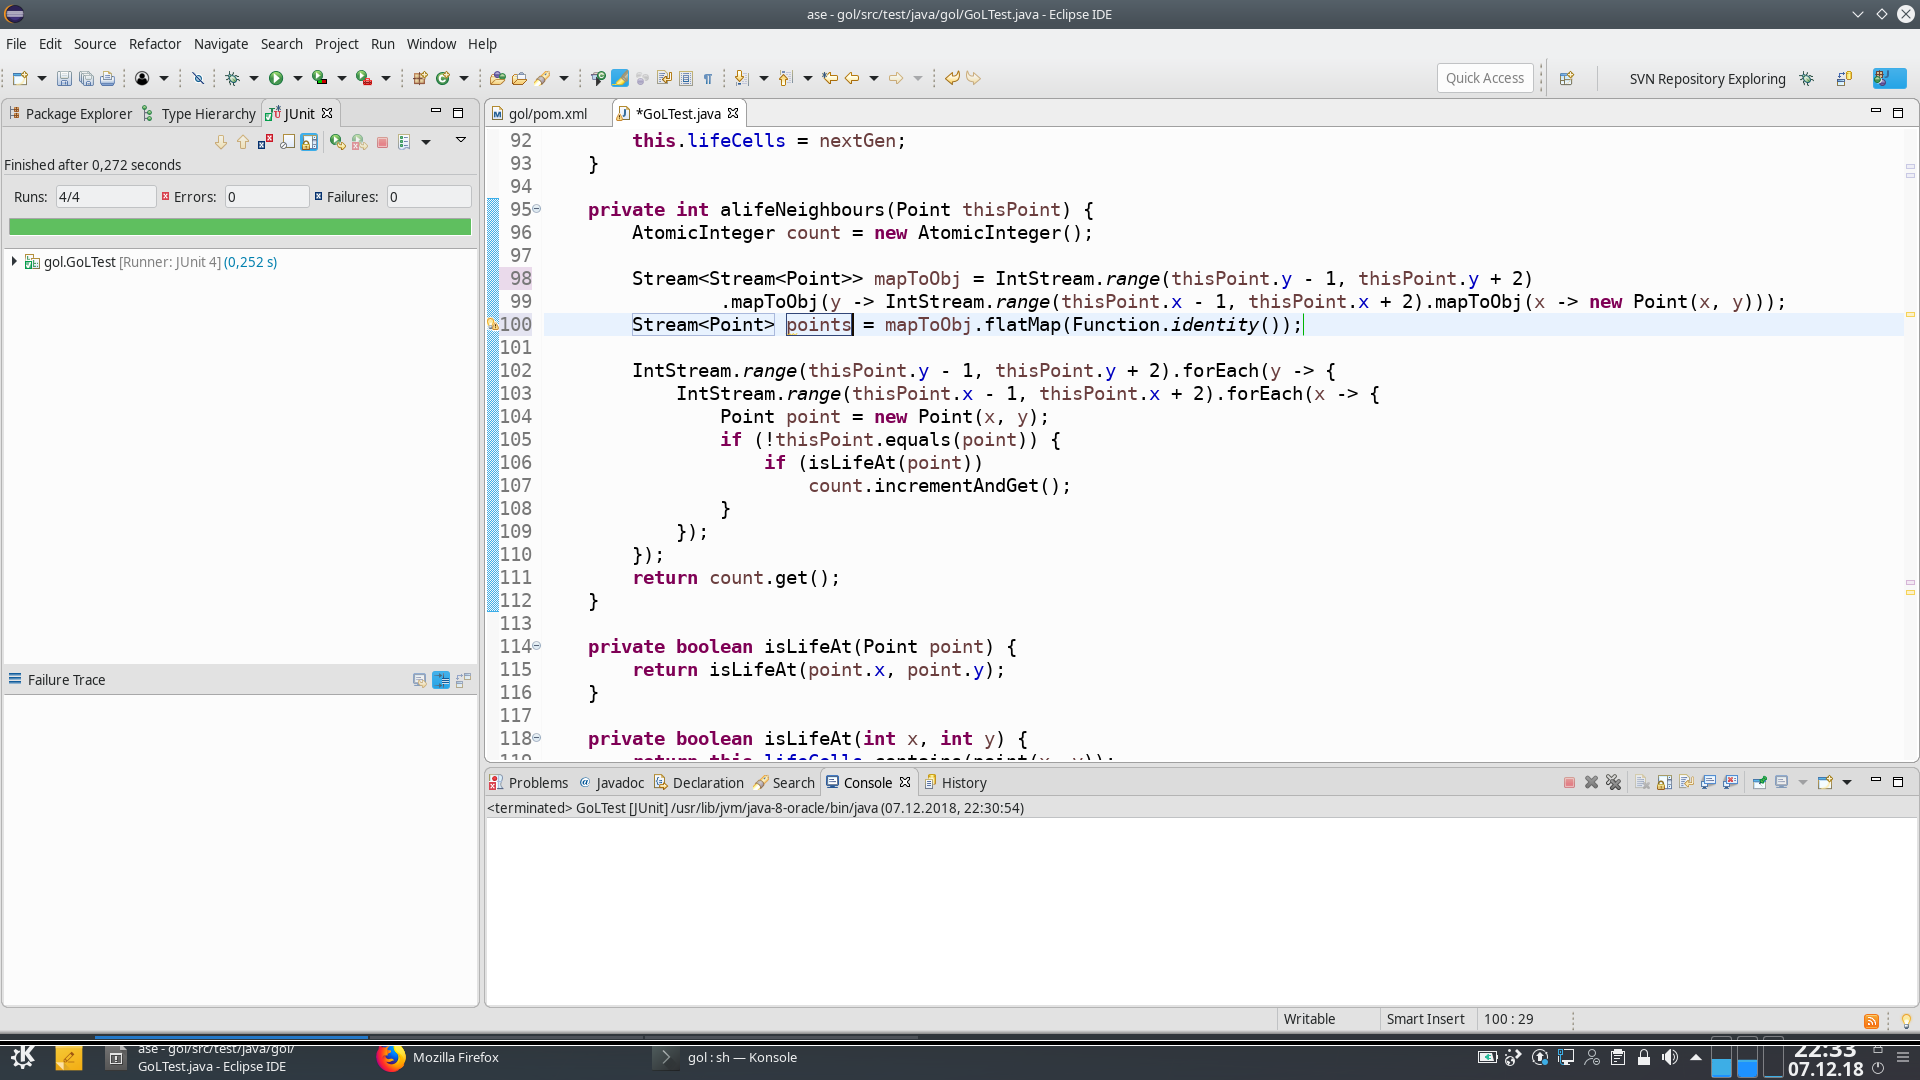
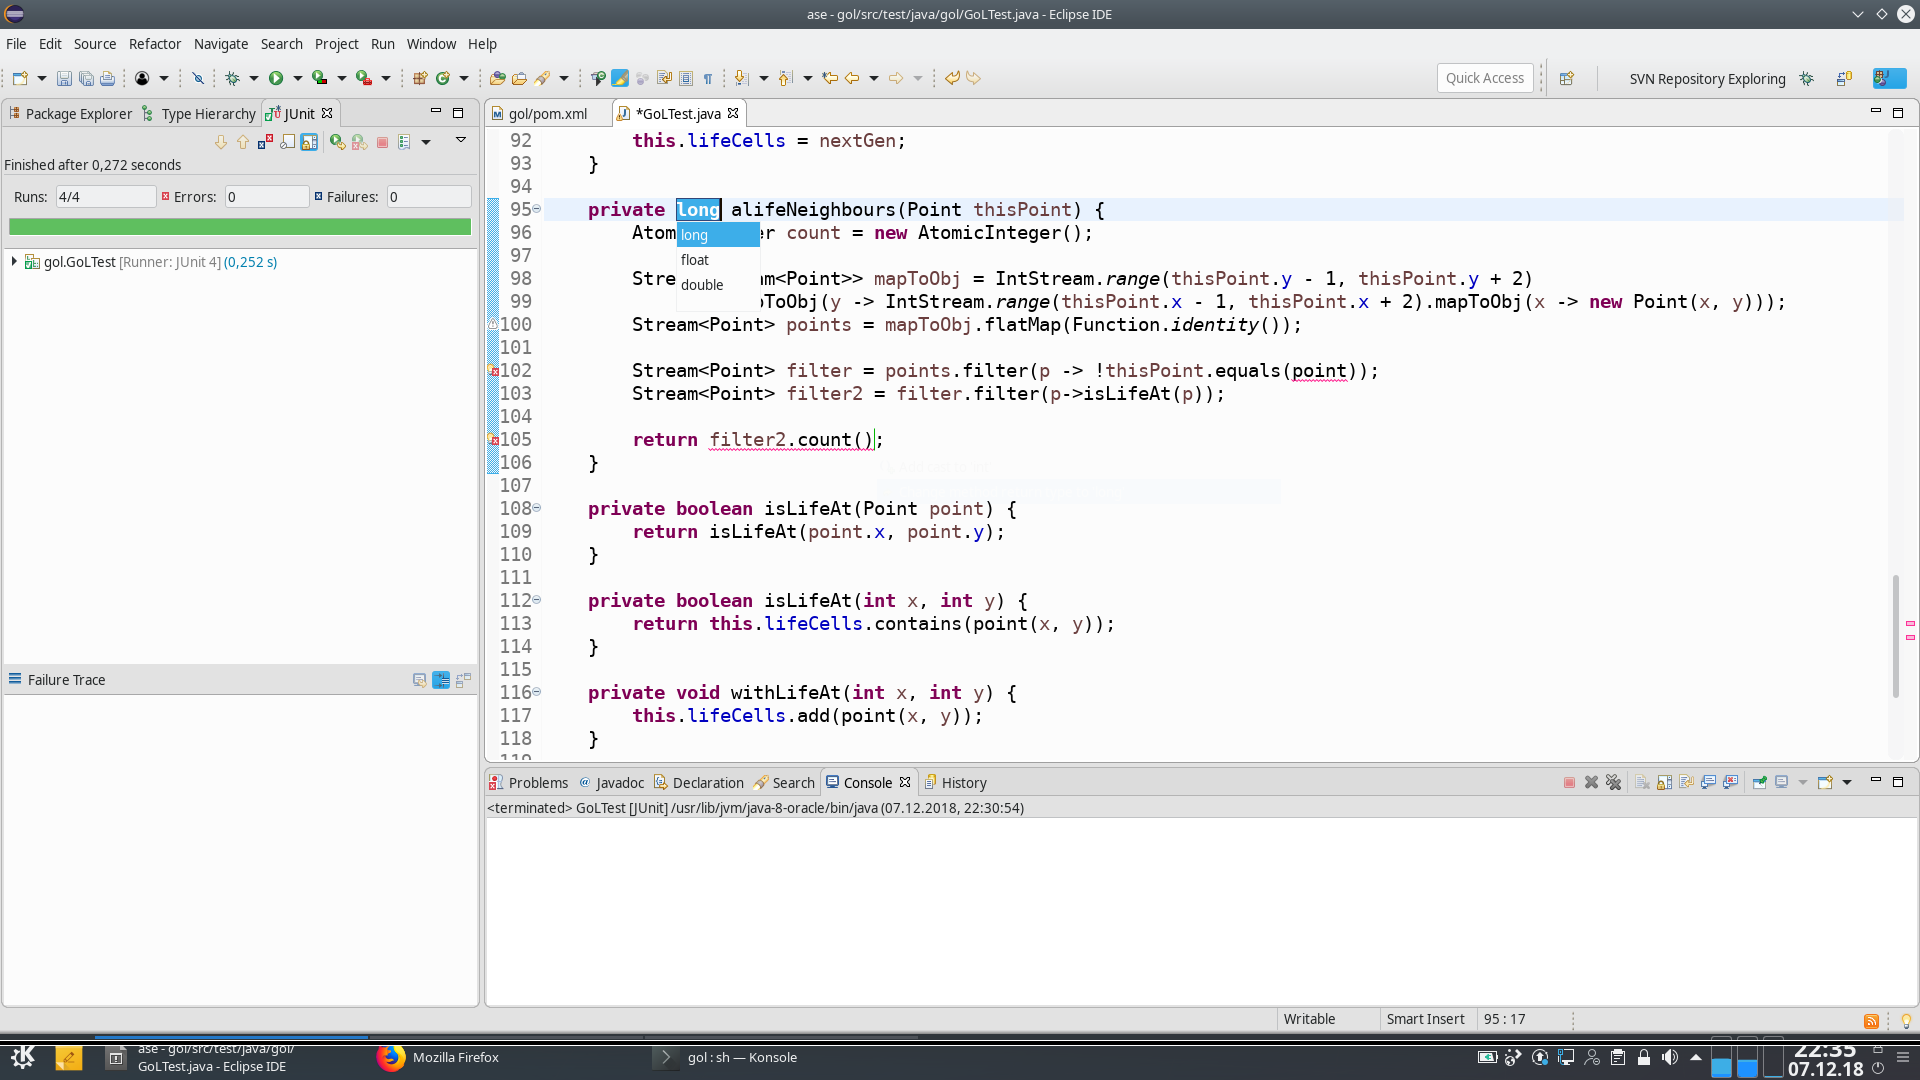
autocommit on change

diff --git a/src/test/java/gol/GoLTest.java b/src/test/java/gol/GoLTest.java
@@ -92,23 +92,17 @@ public class GoLTest {
 		this.lifeCells = nextGen;
 	}
 
-	private int alifeNeighbours(Point thisPoint) {
+	private long alifeNeighbours(Point thisPoint) {
 		AtomicInteger count = new AtomicInteger();
 
 		Stream<Stream<Point>> mapToObj = IntStream.range(thisPoint.y - 1, thisPoint.y + 2)
 				.mapToObj(y -> IntStream.range(thisPoint.x - 1, thisPoint.x + 2).mapToObj(x -> new Point(x, y)));
 		Stream<Point> points = mapToObj.flatMap(Function.identity());
+		
+		Stream<Point> filter = points.filter(p -> !thisPoint.equals(point));
+		Stream<Point> filter2 = filter.filter(p->isLifeAt(p));
 
-		IntStream.range(thisPoint.y - 1, thisPoint.y + 2).forEach(y -> {
-			IntStream.range(thisPoint.x - 1, thisPoint.x + 2).forEach(x -> {
-				Point point = new Point(x, y);
-				if (!thisPoint.equals(point)) {
-					if (isLifeAt(point))
-						count.incrementAndGet();
-				}
-			});
-		});
-		return count.get();
+		return filter2.count();
 	}
 
 	private boolean isLifeAt(Point point) {
